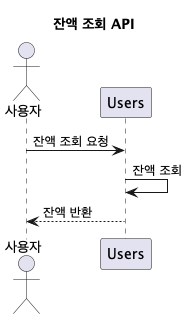
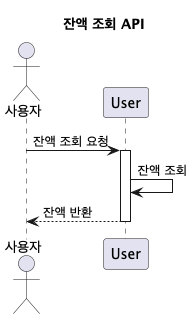
[Docs] 피드백 반영한 ERD, 시퀀스 다이어그램 수정
* ERD 수정 - coupon_history 테이블 삭제
* 시퀀스 다이어그램 수정 - activation bar 추가, 결제 완료 시 DataFlatform 추가

diff --git a/docs/ERD.md b/docs/ERD.md
@@ -1,4 +1,4 @@
-# ERD 설계 
+# ERD 설계
 
 ![ERD](/assets/images/erd/erd.png)
 
@@ -8,129 +8,123 @@
 ### 테이블명: user
 유저 정보를 담는 유저 마스터 테이블이다.
 
-| 컬럼명   | 데이터 타입  | 제약 조건   |
-|---------------|------------|---------------|
-| id            | int        | PK   |
-| name          | varchar    |               |
-| point         | int        |               |
-| created_at    | timestamp  |               |
-| updated_at    | timestamp  |               |
+| 컬럼명        | 데이터 타입 | 설명                            |
+|---------------|-------------|---------------------------------|
+| id            | bigint      | 유저 고유 식별자 (Primary Key)   |
+| name          | varchar     | 유저 이름                       |
+| point         | int         | 유저가 보유한 포인트             |
+| created_at    | date        | 유저 데이터 생성일               |
+| updated_at    | date        | 유저 데이터 수정일               |
 
 ### 테이블명: point_history
 포인트 충전, 사용 이력을 쌓는 테이블이다.
 
-| 컬럼명   | 데이터 타입  | 제약 조건   |
-|---------------|------------|---------------|
-| id            | int        | PK   |
-| user_id       | int        | FK |
-| type          | varchar    |               |
-| created_at    | timestamp  |               |
+| 컬럼명        | 데이터 타입 | 설명                        |
+|---------------|-------------|---------------------------|
+| id            | bigint      | 포인트 이력 고유 식별자 (Primary Key) |
+| user_id       | bigint      | 유저 ID                     |
+| type          | varchar     | 포인트 발생 유형 (CHARGE-충전/USE) |
+| created_at    | datetime    | 포인트 이력 생성일                |
 
-### 테이블명: user_coupon
+### 테이블명: coupon
+쿠폰 정보를 담고 있는 쿠폰 마스터 테이블이다.
+
+| 컬럼명              | 데이터 타입   | 설명                                        |
+|------------------|----------|-------------------------------------------|
+| id               | bigint   | 쿠폰 고유 식별자 (Primary Key)                   |
+| name             | varchar  | 쿠폰 이름                                     |
+| discount_type    | varchar  | 쿠폰 할인 유형 (PERCENTAGE-정률/FIXED_AMOUNT-정액)  |
+| discount_amt     | int      | 할인 금액                                     |
+| max_capacity     | int      | 최대 발급 허용 개수                               |
+| valid_started_at | datetime | 쿠폰 유효 시작일                                 |
+| valid_ended_at   | datetime | 쿠폰 유효 종료일                                 |
+| status           | varchar  | 쿠폰 상태(ACTIVE-발급 및 사용 가능/DEACTIVATED-관리자 비활성화) |
+| created_at       | datetime | 쿠폰 데이터 생성일                                |
+| updated_at       | datetime | 쿠폰 데이터 수정일                                |
+
+### 테이블명: issued_coupon
 유저가 보유하고 있는 쿠폰 정보를 담는 테이블이다.
 
-| 컬럼명    | 데이터 타입  | 제약 조건   |
-|----------------|------------|---------------|
-| id             | int        | PK   |
-| user_id        | int        | FK |
-| coupon_id      | int        | FK |
-| coupon_name    | varchar    |               |
-| discount_type  | varchar    |               |
-| discount_amt   | int        |               |
-| valid_start_at | date       |               |
-| valid_end_at   | date       |               |
-| status         | varchar    |               |
-| created_at     | timestamp  |               |
-| updated_at     | timestamp  |               |
+| 컬럼명              | 데이터 타입 | 설명                                       |
+|------------------|-------------|------------------------------------------|
+| id               | bigint      | 발급 쿠폰의 고유 식별자 (Primary Key)              |
+| coupon_id        | bigint      | 쿠폰 마스터 테이블의 쿠폰 ID                        |
+| user_id          | bigint      | 쿠폰을 발급받은 유저 ID                           |
+| coupon_name      | varchar     | 쿠폰 이름                                    |
+| discount_type    | varchar     | 쿠폰 할인 유형 (PERCENTAGE-정률/FIXED_AMOUNT-정액) |
+| discount_amt     | int         | 할인 금액                                    |
+| issued_at        | datetime    | 쿠폰 발급일                                   | 
+| valid_started_at | datetime    | 쿠폰 유효 시작일                                |
+| valid_ended_at   | datetime    | 쿠폰 유효 종료일                                |
+| used_at          | datetime    | 쿠폰 사용일                                   |
+| status           | varchar     | 쿠폰 상태 (USED-사용/UNUSED-미사용/DEACTIVATED-관리자 비활성화)              |
+| created_at       | datetime    | 발급 쿠폰 데이터 생성일                            |
+| updated_at       | datetime    | 발급 쿠폰 데이터 수정일                            |
 
 ### 테이블명: product
 상품 정보를 담고 있는 상품 마스터 테이블이다.
 
-| 컬럼명   | 데이터 타입  | 제약 조건   |
-|---------------|------------|---------------|
-| id            | int        | PK   |
-| name          | varchar    |               |
-| status        | varchar    |               |
-| stock         | int        |               |
-| price         | int        |               |
-| created_at    | timestamp  |               |
-| updated_at    | timestamp  |               |
+| 컬럼명        | 데이터 타입 | 설명                                |
+|---------------|-------------|-----------------------------------|
+| id            | bigint      | 상품 고유 식별자 (Primary Key)           |
+| name          | varchar     | 상품 이름                             |
+| status        | varchar     | 상품 상태 (SELLING-판매중/STOPPED-판매 종료) |
+| stock         | int         | 상품 재고 수량                          |
+| price         | int         | 상품 가격                             |
+| created_at    | datetime    | 상품 데이터 생성일                        |
+| updated_at    | datetime    | 상품 데이터 수정일                        |
 
 ### 테이블명: order
 주문 정보를 담고 있는 주문 마스터 테이블이다.
 
-| 컬럼명    | 데이터 타입  | 제약 조건   |
-|----------------|------------|---------------|
-| id             | int        | PK   |
-| user_id        | int        | FK |
-| status         | varchar    |               |
-| net_amt        | int        |               |
-| discount_amt   | int        |               |
-| total_amt      | int        |               |
-| coupon_id      | int        | FK |
-| created_at     | timestamp  |               |
-| updated_at     | timestamp  |               |
+| 컬럼명        | 데이터 타입 | 설명                             |
+|---------------|-------------|--------------------------------|
+| id            | bigint      | 주문 고유 식별자 (Primary Key)        |
+| user_id       | bigint      | 주문한 유저 ID                      |
+| status        | varchar     | 주문 상태 (COMPLETED-완료/FAILED-실패/CANCELED-취소) |
+| net_amt       | int         | 할인 전 총 금액(순수 구매 금액)            |
+| discount_amt  | int         | 할인 금액                          |
+| total_amt     | int         | 최종 결제 금액(순수 구매 금액 - 할인 금액)     |
+| coupon_id     | bigint      | 사용된 쿠폰 ID                      |
+| created_at    | datetime    | 주문 데이터 생성일                     |
+| updated_at    | datetime    | 주문 데이터 수정일                     |
 
 ### 테이블명: order_detail
-주문 상품 정보를 담고 있는 테이블이다. 
+주문 상품 정보를 담고 있는 테이블이다.
 
-| 컬럼명   | 데이터 타입  | 제약 조건 |
-|---------------|------------|-------|
-| id            | int        | PK    |
-| order_id      | int        | FK    |
-| product_id    | int        | FK    |
-| quantity      | int        |       |
-| created_at    | timestamp  |       |
+| 컬럼명        | 데이터 타입 | 설명                         |
+|---------------|-------------|----------------------------|
+| id            | bigint      | 주문 상세 고유 식별자 (Primary Key) |
+| order_id      | bigint      | 주문 테이블의 주문 ID              |
+| product_id    | bigint      | 주문한 상품 ID                  |
+| quantity      | int         | 주문한 상품 수량                  |
+| price         | int         | 상품 가격                      |
+| created_at    | datetime    | 주문 상세 데이터 생성일              |
 
 ### 테이블명: payment
-결제 정보를 담고 있는 테이블이다. 
+결제 정보를 담고 있는 테이블이다.
 
-| 컬럼명   | 데이터 타입  | 제약 조건 |
-|---------------|------------|-------|
-| id            | int        | PK    |
-| order_id      | int        | FK    |
-| status        | varchar    |       |
-| total_amt     | int        |       |
-| created_at    | timestamp  |       |
-| updated_at    | timestamp  |       |
-
-### 테이블명: coupon
-쿠폰 정보를 담고 있는 쿠폰 마스터 테이블이다. 
-
-| 컬럼명    | 데이터 타입  | 제약 조건   |
-|----------------|------------|---------------|
-| id             | int        | PK   |
-| name           | varchar    |               |
-| discount_type  | varchar    |               |
-| discount_amt   | int        |               |
-| valid_start_at | date       |               |
-| valid_end_at   | date       |               |
-| created_at     | timestamp  |               |
-| updated_at     | timestamp  |               |
-
-### 테이블명: coupon_history
-어떤 사용자가 어떤 쿠폰을 받급 받았는지 이력을 쌓는 테이블이다. 
-
-| 컬럼명   | 데이터 타입  | 제약 조건   |
-|---------------|------------|---------------|
-| id            | int        | PK   |
-| coupon_id     | int        | FK |
-| user_id       | int        | FK |
-| created_at    | timestamp  |               |
+| 컬럼명        | 데이터 타입 | 설명                                         |
+|---------------|-------------|--------------------------------------------|
+| id            | bigint      | 결제 고유 식별자 (Primary Key)                    |
+| order_id      | bigint      | 결제와 연결된 주문 ID                              |
+| status        | varchar     | 결제 상태 (COMPLETED-완료/FAILED-실패/CANCELED-취소) |
+| total_amt     | int         | 최종 결제 금액                                  |
+| created_at    | datetime    | 결제 데이터 생성일                                 |
+| updated_at    | datetime    | 결제 데이터 수정일                                 |
 
 ---- 
 
 ## 테이블의 관계
 * user(1) -> order(N): 유저는 여러 개의 주문을 생성할 수 있다.
-* user(1) -> user_coupon(N): 유저는 여러 개의 쿠폰을 소유할 수 있다. 
+* user(1) -> issued_coupon(N): 유저는 여러 개의 쿠폰을 소유할 수 있다.
 * user(1) -> point_history(N): 유저는 여러 개의 포인트 충전, 사용 이력을 가질 수 있다.
 
 
-* coupon(1) -> user_coupon(N): 하나의 쿠폰은 여러 사용자 쿠폰에 참조될 수 있다.
-* coupon(1) -> coupon_history(N): 하나의 쿠폰은 여러 개의 쿠폰 발급 이력을 가질 수 있다.
+* coupon(1) -> issued_coupon(N): 하나의 쿠폰은 여러 사용자 쿠폰에 참조될 수 있다.
 
 
-* order(1) -> order_detail(N): 하나의 주문은 여러 개의 주문 상세(주문 상품)를 가질 수 있다.  
+* order(1) -> order_detail(N): 하나의 주문은 여러 개의 주문 상세(주문 상품)를 가질 수 있다.
 * order(1) -> payment(1): 하나의 주문은 하나의 결제를 참조한다.
 
 

diff --git a/README.md b/README.md
@@ -1,6 +1,6 @@
 # 이커머스 서비스 구축 과제 
 
-## STEP 05
+## 프로젝트 설계 문서 자료 
 
 -----
 
@@ -8,6 +8,8 @@
 * 시나리오 요구사항 별 분석 자료 작성  
   * [플로우 차트](https://chip-parmesan-fbe.notion.site/16f0183f52a7808fa4f3de7c8ccd4859?pvs=4) 작성  
   * [시퀀스 다이어그램](docs/SequenceDiagram.md) 작성
+* [ERD](docs/ERD.md) 작성
+* [API 명세서](docs/ApiDocs.md) 작성 (Swagger-ui)
 
 ---
 
